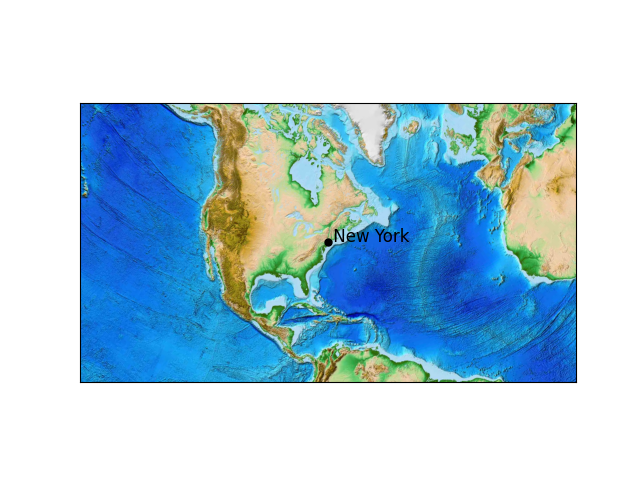
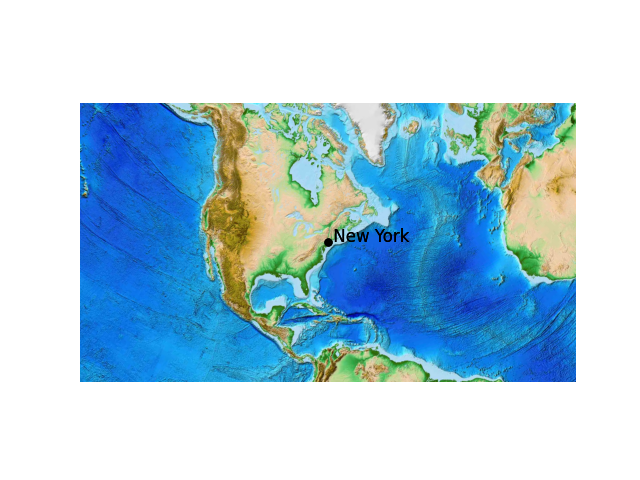
get everything done

Changed region(s): [[0.5312, 0.4688, 0.6562, 0.5]]

diff --git a/Flask/app/templates/result.html b/Flask/app/templates/result.html
@@ -1,39 +1,47 @@
 <!doctype html>
+<html lang="en">
 
 {% extends "base.html" %}
 
 {% block content %}
 
-{% if res[2] < 2 %}
-<body background = "/static/img/goodbackground.GIF">
+<!-- <script>
+    function myFunction() {
+      var popup = document.getElementById("myPopup");
+      popup.classList.toggle("show");
+    }
+</script> -->
+
+{% if res[2]|int < 2 %}
+<body class = "background" background ="/static/img/goodbackground.GIF">
         <form method="POST">
         <output>
-            <button class="btn" type="submit"> Predict Another! </button>
-            <div><p>
+            <div class = "map"><p>
                 {% for title in res %} 
                 {{ title }}<br>
                 {% endfor %}
             </b></p></div>
-            <div>
+            <div class = "map">
                 <img src="\static\img\local_map.png" alt="google map">
             </div>
+            <button class="map" type="submit"> Predict Another! </button>
         </form>
 </body>
 
 {% else %}
 
-<body background = "/static/img/sadbackground.GIF">
+<body class = "background" background = "/static/img/sadbackground.GIF">
         <form method="POST">
         <output>
-            <button class="btn" type="submit"> Predict Another! </button>
-            <div><p>
+            <div class = "map"><p>
                 {% for title in res %} 
                 {{ title }}<br>
                 {% endfor %}
             </b></p></div>
-            <div>
+            <div class = "map">
                 <img src="\static\img\local_map.png" alt="google map">
             </div>
+            <button class="map" type="submit"> Predict Another! </button>
         </form>
 </body>
 

diff --git a/Flask/app/static/css/style.css b/Flask/app/static/css/style.css
@@ -6,11 +6,16 @@
 }
 
 body {
-  background-image: url("static/img/background.png");
+  background-image: url("../img/background.png");
   background-size: cover;
   background-repeat: no-repeat;
   background-position: bottom;
   background-position-y: 40px;
+}
+
+.background {
+  background-size: cover;
+  background-repeat: no-repeat;
 }
 
 .heading_container{
@@ -31,7 +36,7 @@ body {
   background-repeat: no-repeat;
   overflow-x: auto;
   height: 100vh;
-  width: 800px;
+  width: 700px;
   display: flex;
   flex-direction: column;
   margin: 0 auto;
@@ -72,7 +77,7 @@ body {
 #btn {
   background: #84cf90;
   color: #000;
-  font-size: 18px;
+  font-size: 20px;
   font-weight: 700px;
   display: flex;
   justify-content: center;
@@ -81,11 +86,6 @@ body {
   outline: none;
   border-radius: 4px;
   cursor: pointer;
-  pointer-events: none;
-}
-
-#btn.clicked {
-  pointer-events: auto;
 }
 
 #btn:hover {
@@ -93,4 +93,15 @@ body {
   transform: scale(1.4);
   color: #fff;
   transition: all 1s ease;
+}
+
+.map{
+  text-align: center;
+  display: flex;
+  flex-direction: column;
+  bottom: 0;
+  color: white;
+  align-items: center;
+  font-size: 22px;
+  text-decoration-color: #000;
 }

diff --git a/Flask/app/templates/index.html b/Flask/app/templates/index.html
@@ -3,7 +3,7 @@
 {% extends "base.html" %}
 
 {% block content %}
-<body background = "../static/img/background.png">
+<body background = "/static/img/background.png">
     <br>
     <link rel="stylesheet" href="../static/css/style.css">
     <div class="heading_container">

diff --git a/Flask/app/templates/base.html b/Flask/app/templates/base.html
@@ -1,5 +1,4 @@
 <!doctype html>
-<html>
     <head>
         <!-- meta -->
         <meta charset="UTF-8">

diff --git a/Flask/app/views.py b/Flask/app/views.py
@@ -8,7 +8,6 @@ from app import model, gmaps
 import geocoder
 from mpl_toolkits.basemap import Basemap
 import matplotlib.pyplot as plt
-import os
 
 class ERROR_CODES:
     SUCCESS = 0
@@ -67,6 +66,10 @@ def my_form_post():
     timestamp = date + " " + time
     timestamp = timelibrary.mktime(timelibrary.strptime(timestamp, '%Y-%m-%d %H:%M'))
     prediction = model.predict((timestamp, latitude, longitude))
+    if prediction < 2:
+        prediction = "You are safe!\n"
+    else:
+        prediction = "Run..."
 
     output = [address_detailed, address_detailed2, str(prediction)]
 
@@ -76,6 +79,7 @@ def my_form_post():
                 lat_0=latitude, lon_0=longitude,)
     map.etopo(scale=1, alpha=1)
     x, y = map(longitude, latitude)
+    plt.axis('off')
     plt.plot(x, y, 'ok', markersize=5)
     plt.text(x, y, " " + city, fontsize=12)
     plt.savefig("app/static/img/local_map.png", transparent=True)

diff --git a/Flask/config.py b/Flask/config.py
@@ -1,3 +1,3 @@
 CSRF_ENABLED = True
 SECRET_KEY = 'you-will-never-guess'
-GOOGLEMAP_KEY = ''
+GOOGLEMAP_KEY = 'AIzaSyCL-7rNoLM-cOl2fR1BJDD8qw-QY3XXCFg'
